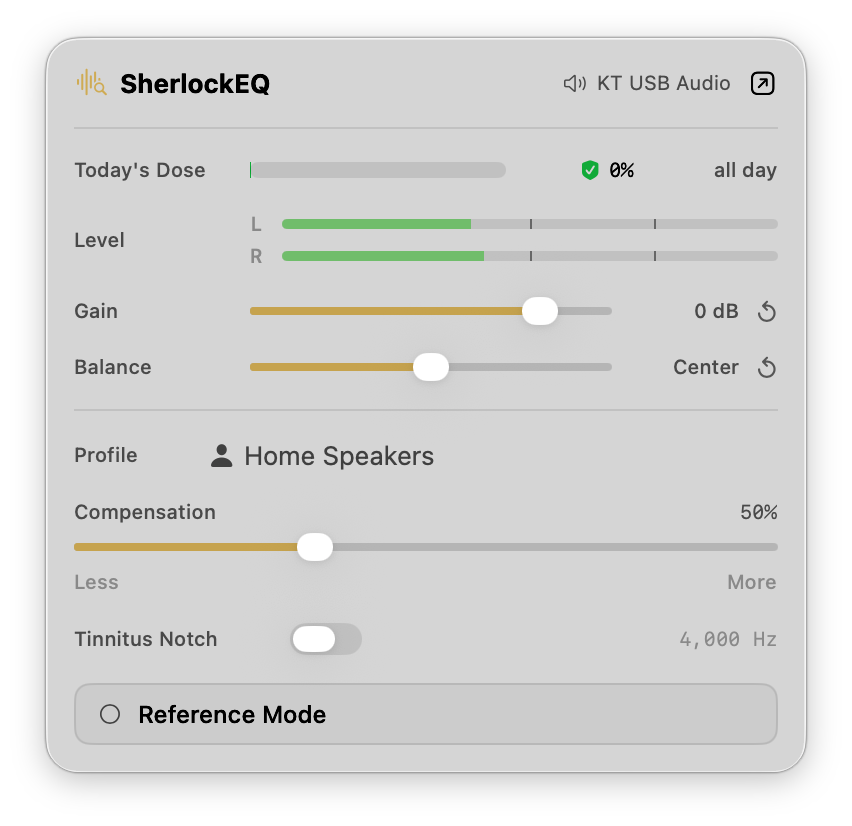
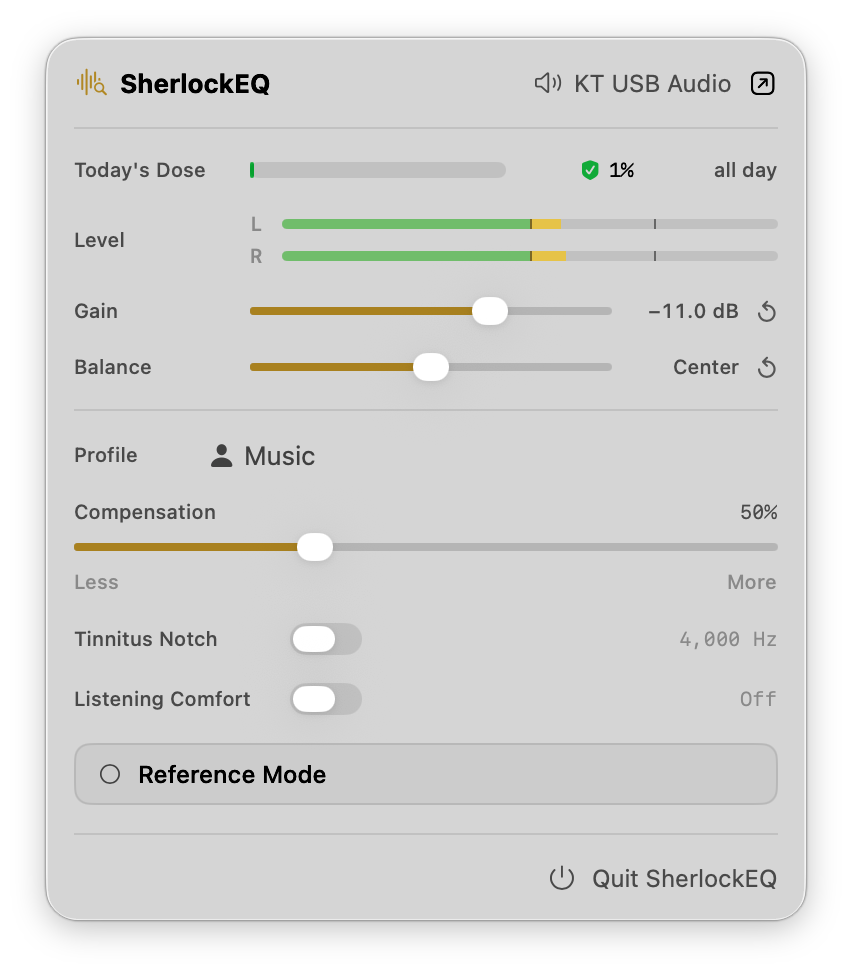
Website: hearing resources, automation comparison, updated popover shot
index.html:
- Add "Helpful resources" list (NIDCD, CDC, CDC/NIOSH, WHO, ASHA) under the
  not-a-medical-device disclaimer
- Replace the menu-bar popover screenshot with the current build (now shows the
  Quit SherlockEQ control) and update its alt text

compare.html:
- Add "Shortcuts (App Intents)" and "Command line interface" rows to the feature
  matrix, with honest marks for SoundSource, eqMac, Sound Control, and Boom 3D
- Note each app's real automation path in the SoundSource and eqMac side-by-sides

diff --git a/web/compare.html b/web/compare.html
@@ -632,6 +632,26 @@
               <td><span class="mark no" title="Uses a virtual driver">—</span></td>
             </tr>
             <tr>
+              <td class="row-head">Shortcuts (App Intents)
+                <span class="sub">Automate from Apple's Shortcuts app</span>
+              </td>
+              <td class="is-self"><span class="mark yes"><i data-lucide="check"></i></span></td>
+              <td><span class="mark yes"><i data-lucide="check"></i></span></td>
+              <td><span class="mark no" title="HTTP API only; no Shortcuts actions">—</span></td>
+              <td><span class="mark no" title="AppleScript only; no Shortcuts actions">—</span></td>
+              <td><span class="mark no"><i data-lucide="minus"></i></span></td>
+            </tr>
+            <tr>
+              <td class="row-head">Command line interface
+                <span class="sub">Script and automate from the terminal</span>
+              </td>
+              <td class="is-self"><span class="mark yes"><i data-lucide="check"></i></span></td>
+              <td><span class="mark no" title="macOS Shortcuts automation; no command line tool">—</span></td>
+              <td><span class="mark part" title="No CLI binary, but a documented HTTP API scriptable via curl">◐</span></td>
+              <td><span class="mark no" title="AppleScript automation; no command line tool">—</span></td>
+              <td><span class="mark no"><i data-lucide="minus"></i></span></td>
+            </tr>
+            <tr>
               <td class="row-head">Price
                 <span class="sub">As of publication; verify with vendor</span>
               </td>
@@ -645,7 +665,7 @@
         </table>
       </div>
 
-      <p class="matrix-note" style="margin-top: var(--s-6); max-width: 78ch;">
+      <p class="matrix-note" style="margin-top: var(--s-6); max-width: 60ch;">
         <span class="mark yes" style="vertical-align: middle;"><i data-lucide="check"></i></span> full support &nbsp;·&nbsp;
         <span class="mark part" style="vertical-align: middle;">◐</span> partial or tier-gated &nbsp;·&nbsp;
         <span class="mark no" style="vertical-align: middle;"><i data-lucide="minus"></i></span> not offered.
@@ -673,7 +693,7 @@
         </div>
         <div class="body">
           <p><strong>What it nails.</strong> SoundSource is the most complete Mac audio control utility. Per-app volume, per-app EQ, per-output-device control, and a real AU plugin host in one polished package. If your problem is "Zoom is too loud, Spotify is too quiet, and YouTube needs a bass cut," this is the right answer.</p>
-          <p><strong>Where SherlockEQ differs.</strong> SherlockEQ doesn't do per-app routing and doesn't host plugins. It assumes your ears are the variable, not the source. The four EQ modes (Simple / Speech / Advanced / Expert) drive one chain that applies to all system audio, with per-ear curves derived from your audiogram and a tinnitus notch that travels with each profile.</p>
+          <p><strong>Where SherlockEQ differs.</strong> SherlockEQ doesn't do per-app routing and doesn't host plugins. It assumes your ears are the variable, not the source. The four EQ modes (Simple / Speech / Advanced / Expert) drive one chain that applies to all system audio, with per-ear curves derived from your audiogram and a tinnitus notch that travels with each profile. On automation the two overlap: both expose macOS Shortcuts actions via App Intents, and SherlockEQ adds a command line tool for scripting from the terminal — a small edge, not a deciding one.</p>
           <dl class="overlap">
             <dt>Overlap</dt><dd>Both apply EQ system-wide, both ship per-device profiles, both run native (no virtual driver).</dd>
             <dt>SherlockEQ adds</dt><dd>Audiogram-driven curve, per-ear parametric (not just balance), tinnitus tone finder + notch, NIOSH dose tracker.</dd>
@@ -689,7 +709,7 @@
         </div>
         <div class="body">
           <p><strong>What it nails.</strong> eqMac is the most direct "I want a Mac EQ" answer. Free 10-band, paid Pro with unlimited bands, parametric control, Q/bandwidth, spectrum analyzer, separate left/right EQ, app-volume mixing, headphone presets, and device-based preset switching. The asymmetric-EQ feature in Pro overlaps directly with what SherlockEQ does by default.</p>
-          <p><strong>Where SherlockEQ differs.</strong> SherlockEQ leads with the hearing context — you don't start at a 10-band slider, you start at an audiogram or a tinnitus sweep. It is free with no Pro tier, and uses the native Core Audio Tap API instead of a virtual driver, which means no extra device install. eqMac's Pro tier matches several SherlockEQ features behind a subscription.</p>
+          <p><strong>Where SherlockEQ differs.</strong> SherlockEQ leads with the hearing context — you don't start at a 10-band slider, you start at an audiogram or a tinnitus sweep. It is free with no Pro tier, and uses the native Core Audio Tap API instead of a virtual driver, which means no extra device install. eqMac's Pro tier matches several SherlockEQ features behind a subscription. For automation, eqMac is genuinely scriptable too — it exposes an HTTP API you can drive with <code>curl</code> — where SherlockEQ ships a dedicated command line tool; both get you to terminal control by a different route.</p>
           <dl class="overlap">
             <dt>Overlap</dt><dd>System-wide EQ, parametric / per-ear capability (Pro), device presets, spectrum analyzer.</dd>
             <dt>SherlockEQ adds</dt><dd>Audiogram-driven curve, tinnitus tone finder + notch, NIOSH dose tracker, native CATap (no driver), free.</dd>

diff --git a/web/index.html b/web/index.html
@@ -430,6 +430,34 @@
       margin: 0;
       max-width: 56ch;
     }
+    .resources-label {
+      font-family: var(--font-mono);
+      font-size: var(--fs-12);
+      font-weight: var(--w-medium);
+      color: var(--fg-3);
+      text-transform: uppercase;
+      letter-spacing: var(--ls-label);
+      margin: var(--s-7) 0 var(--s-4);
+    }
+    .resources {
+      list-style: none;
+      margin: 0;
+      padding: 0;
+      max-width: 56ch;
+    }
+    .resources li { margin-bottom: var(--s-3); }
+    .resources li:last-child { margin-bottom: 0; }
+    .resources a {
+      font-size: var(--fs-13);
+      color: var(--fg-2);
+      line-height: var(--lh-body);
+      text-decoration: none;
+    }
+    .resources a:hover {
+      color: var(--fg-1);
+      text-decoration: underline;
+      text-underline-offset: 3px;
+    }
 
     /* ---- Footer ------------------------------------------------------- */
     footer.site-footer {
@@ -647,7 +675,7 @@
         </figure>
 
         <figure class="shot">
-          <img src="assets/shot-popover.png" alt="Menu-bar popover — today's dose, left/right level meters, master gain and balance sliders, profile picker, compensation slider, tinnitus notch toggle, and a reference-mode bypass." loading="lazy" />
+          <img src="assets/shot-popover.png" alt="Menu-bar popover — today's dose, left/right level meters, master gain and balance sliders, profile picker, compensation slider, tinnitus notch toggle, a reference-mode bypass, and a quit button." loading="lazy" />
           <figcaption class="cap">
             <span class="key">06 · MENU BAR</span>
             <span class="label">Live levels, dose, gain, balance, and the notch toggle — without opening the app.</span>
@@ -825,6 +853,15 @@ brew install --cask sherlockeq</code></pre>
           <p>
             SherlockEQ is not a health or medical application. It does not diagnose, treat, measure, or monitor any hearing condition, tinnitus, or disability. It is an audio equalizer for personal listening preferences. If you have concerns about your hearing, consult a doctor, audiologist, or licensed healthcare professional.
           </p>
+
+          <div class="resources-label">Helpful resources</div>
+          <ul class="resources">
+            <li><a href="https://www.nidcd.nih.gov/health/hearing-ear-infections-deafness">NIDCD — Hearing, Ear Infections, and Deafness</a></li>
+            <li><a href="https://www.cdc.gov/hearing-loss/">CDC — Hearing Loss</a></li>
+            <li><a href="https://www.cdc.gov/niosh/noise/">CDC/NIOSH — Noise and Occupational Hearing Loss</a></li>
+            <li><a href="https://www.who.int/news-room/questions-and-answers/item/deafness-and-hearing-loss-safe-listening">WHO — Deafness and Hearing Loss: Safe Listening</a></li>
+            <li><a href="https://www.asha.org/practice-portal/clinical-topics/tinnitus-and-hyperacusis/">ASHA — Tinnitus and Hyperacusis</a></li>
+          </ul>
         </aside>
       </div>
     </div>
